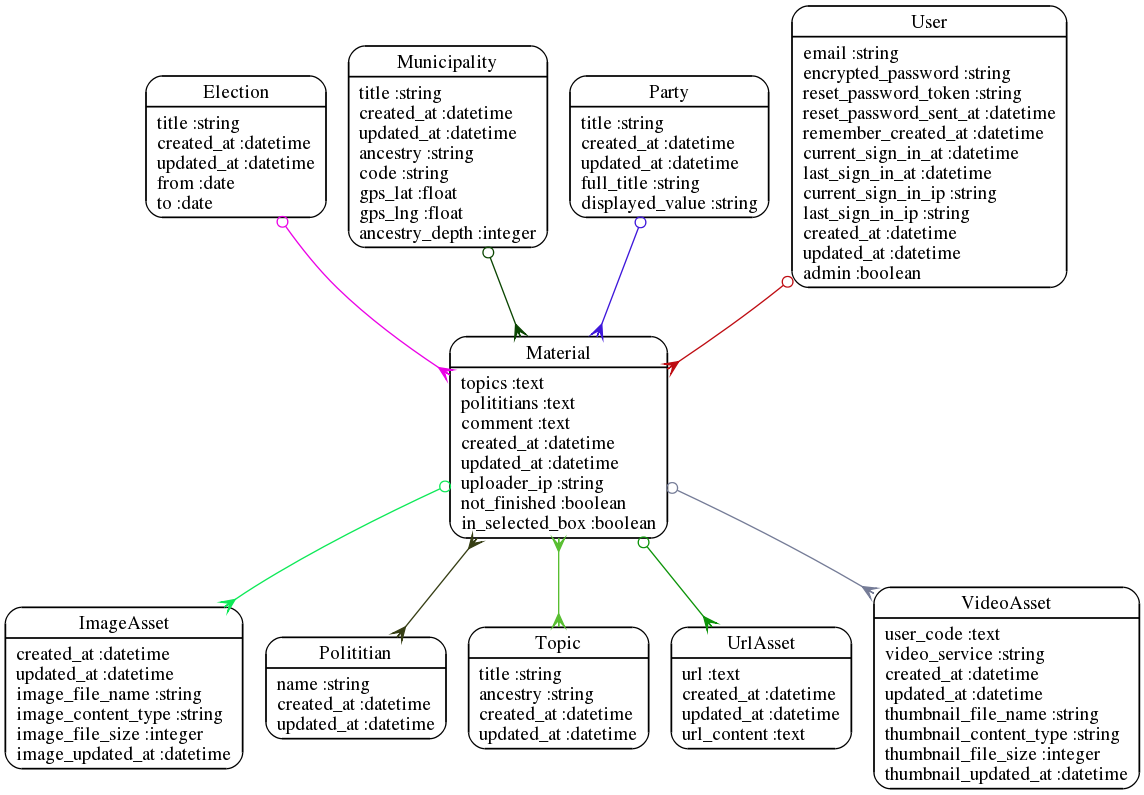
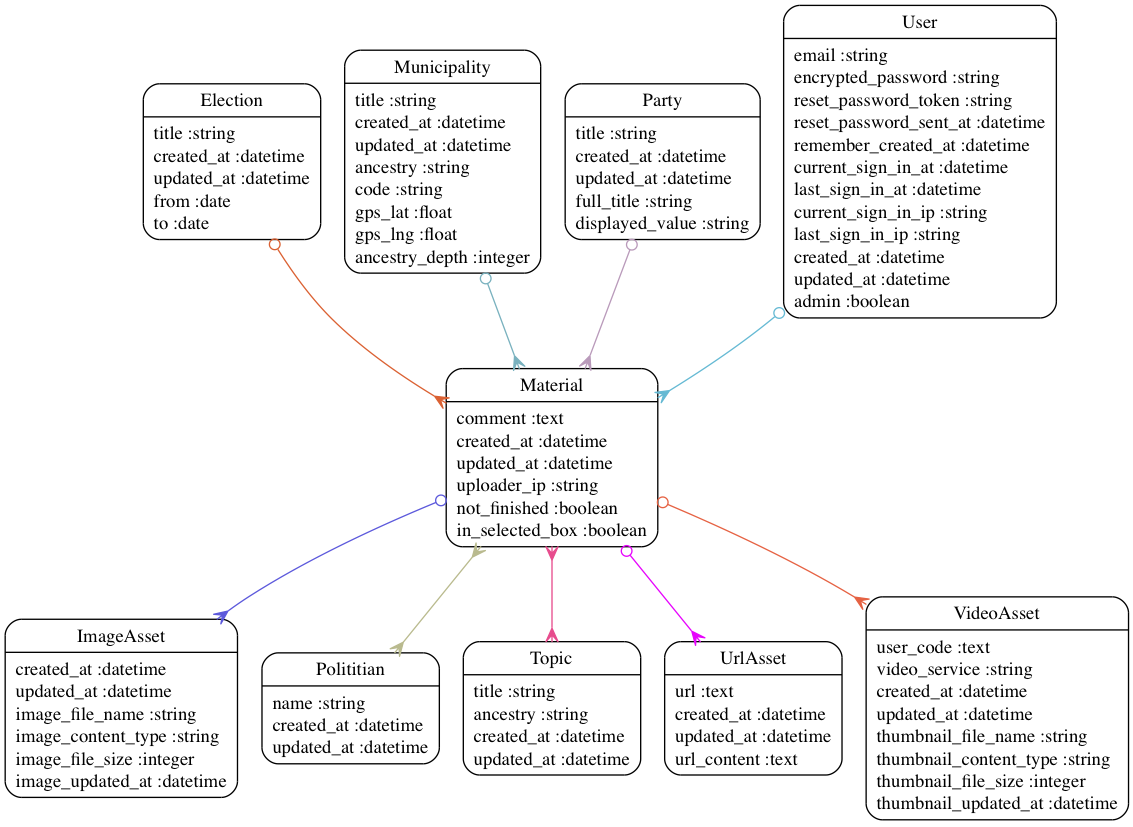
Removed unecessary fields from material.

diff --git a/db/schema.rb b/db/schema.rb
@@ -11,7 +11,7 @@
 #
 # It's strongly recommended to check this file into your version control system.
 
-ActiveRecord::Schema.define(:version => 20120528082437) do
+ActiveRecord::Schema.define(:version => 20120529072601) do
 
   create_table "elections", :force => true do |t|
     t.string   "title"
@@ -35,8 +35,6 @@ ActiveRecord::Schema.define(:version => 20120528082437) do
     t.integer  "election_id"
     t.integer  "municipality_id"
     t.integer  "party_id"
-    t.text     "topics"
-    t.text     "polititians"
     t.text     "comment"
     t.datetime "created_at",                         :null => false
     t.datetime "updated_at",                         :null => false

diff --git a/app/models/material.rb b/app/models/material.rb
@@ -44,7 +44,7 @@ class Material < ActiveRecord::Base
   end
 end
 # == Schema Information
-# Schema version: 20120505093603
+# Schema version: 20120529072601
 #
 # Table name: materials
 #
@@ -52,12 +52,12 @@ end
 #  election_id     :integer
 #  municipality_id :integer
 #  party_id        :integer
-#  topics          :text
-#  polititians     :text
 #  comment         :text
 #  created_at      :datetime        not null
 #  updated_at      :datetime        not null
 #  user_id         :integer
 #  uploader_ip     :string(255)
+#  not_finished    :boolean         default(FALSE)
+#  in_selected_box :boolean         default(FALSE)
 #
 

diff --git a/app/models/url_asset.rb b/app/models/url_asset.rb
@@ -11,12 +11,12 @@ class UrlAsset < ActiveRecord::Base
   end
 end
 # == Schema Information
-# Schema version: 20120504093311
+# Schema version: 20120529072601
 #
 # Table name: url_assets
 #
 #  id          :integer         not null, primary key
-#  url         :string(255)
+#  url         :text
 #  material_id :integer
 #  created_at  :datetime        not null
 #  updated_at  :datetime        not null

diff --git a/db/migrate/20120529072601_remove_topics_and_polititians_from_material.rb b/db/migrate/20120529072601_remove_topics_and_polititians_from_material.rb
@@ -1,0 +1,6 @@
+class RemoveTopicsAndPolititiansFromMaterial < ActiveRecord::Migration
+  def change
+    remove_column :materials, :polititians
+    remove_column :materials, :topics
+  end
+end
